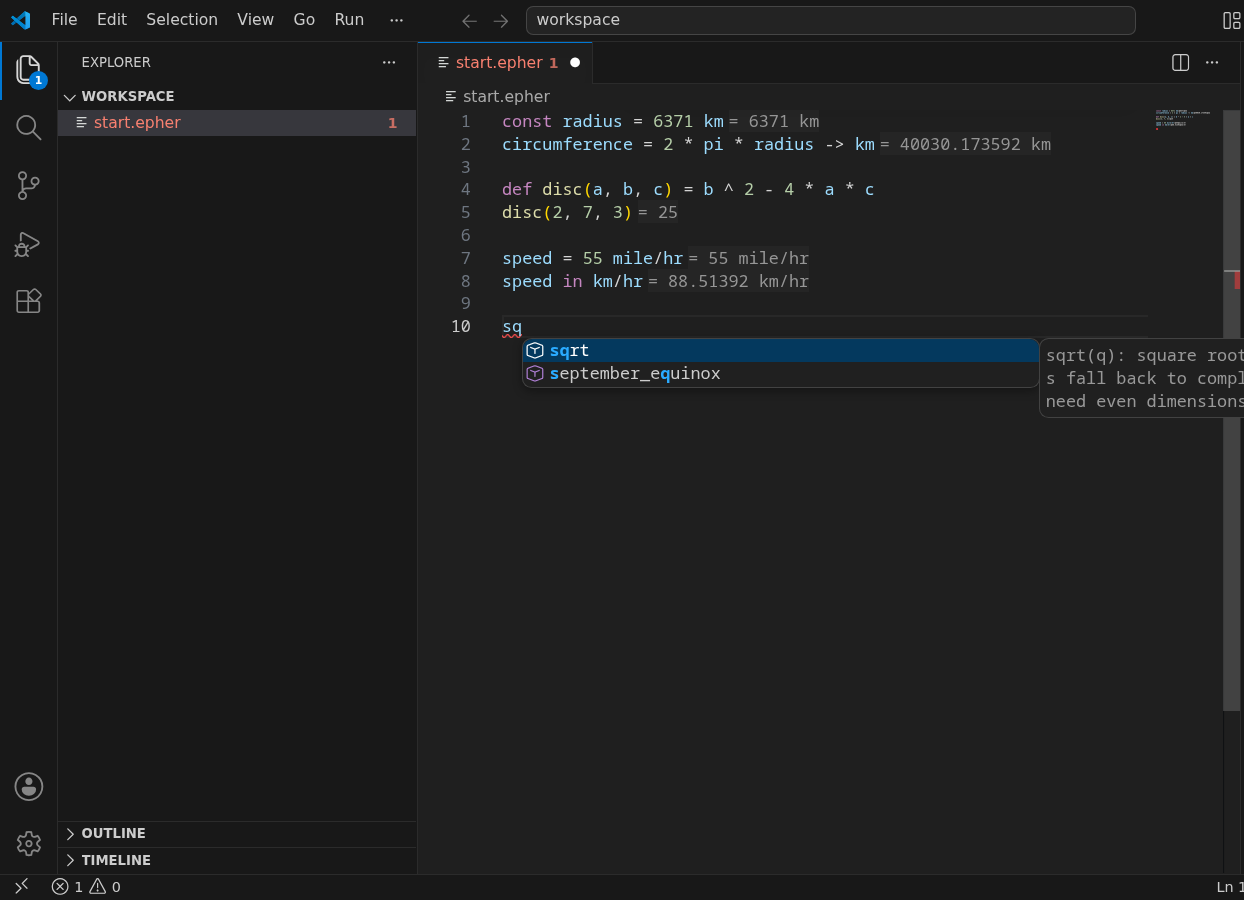
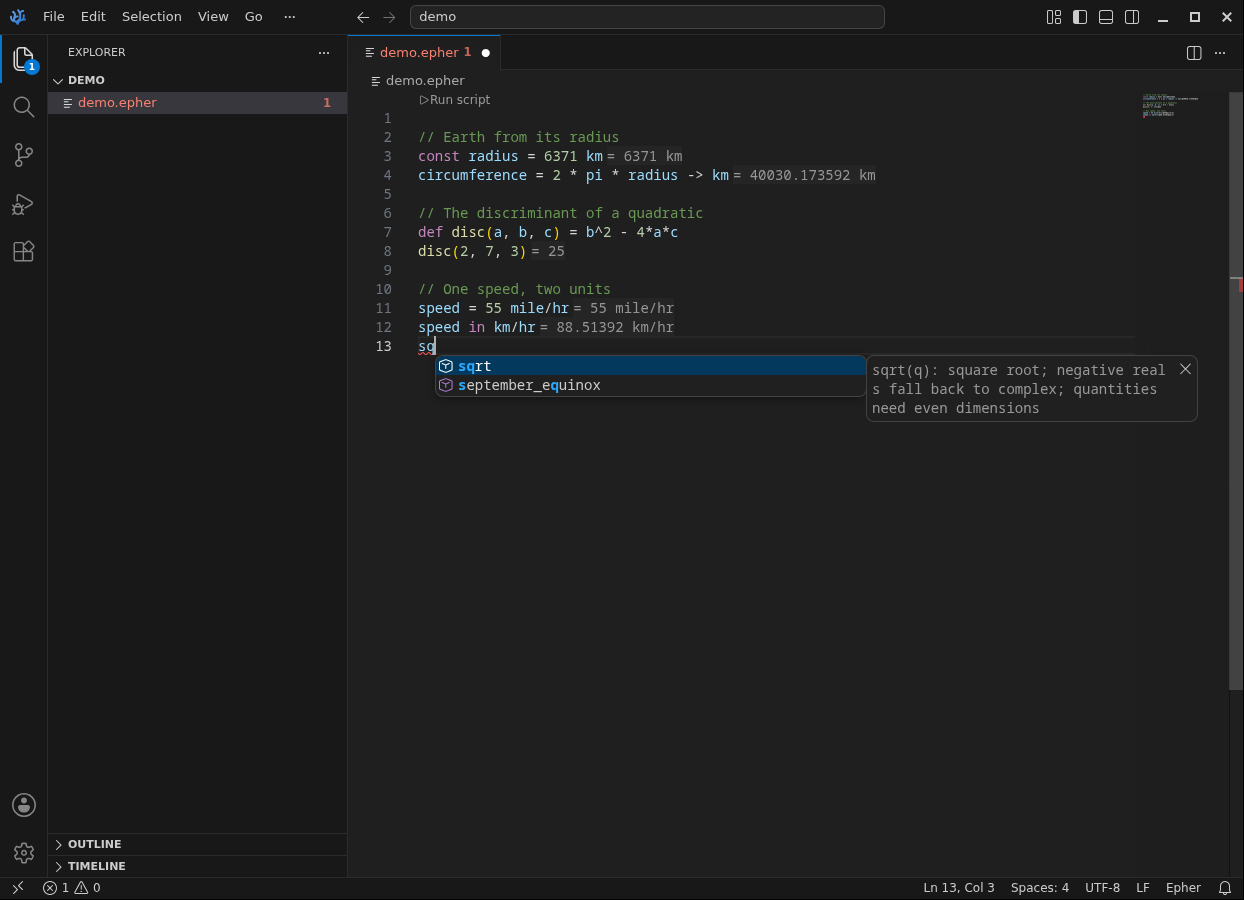
feat(vscode): open vsx listing and vscodium captures
the listing turns editor neutral: the readme quick start installs
from the marketplace in vs code and from open vsx in vscodium, and
the captures are reshot in vscodium itself (hero, typed demo gif,
hover, completion). package.json gains the repository links the
registry footer renders, a changelog tab ships in the vsix, and the
extension version joins the release ride at 0.5.55 - open vsx
refuses to re-publish a version, so the number has to move every
train. a new openvsx-publish workflow publishes the same vsix to
open-vsx.org with a token, skipping until the OVSX_PAT secret
exists.

diff --git a/clients/vscode/README.md b/clients/vscode/README.md
@@ -1,4 +1,4 @@
-# Epher for Visual Studio Code
+# Epher for Visual Studio Code and VSCodium
 
 [![latest release](https://img.shields.io/github/v/release/upyesp/epher?label=release&sort=semver)](https://github.com/upyesp/epher/releases/latest)
 [![release build](https://github.com/upyesp/epher/actions/workflows/release.yml/badge.svg)](https://github.com/upyesp/epher/actions/workflows/release.yml)
@@ -44,13 +44,16 @@ side panel, no print statements: the editor *is* the calculator.
 
 ## Quick start
 
-1. In VS Code: **Extensions** view → search for **Epher** →
+1. In **VS Code**: **Extensions** view → search for **Epher** →
    **Install** (or run `ext install upyesp.epher`). The
    [marketplace page](https://marketplace.visualstudio.com/items?itemName=upyesp.epher)
    has the listing.
-2. Open any `.epher` file and start calculating.
+2. In **VSCodium**: **Extensions** view → search for **Epher** →
+   **Install**. VSCodium searches [Open VSX](https://open-vsx.org/extension/upyesp.epher)
+   by default, which carries the same extension.
+3. Open any `.epher` file and start calculating.
 
-Prefer to sideload, or on a fork (Cursor, VSCodium)? Get
+On another fork (Cursor and friends), or prefer to sideload? Get
 `epher-vscode.vsix` from the
 [releases page](https://github.com/upyesp/epher/releases/latest),
 then **Extensions** view → the `⋯` menu → **Install from VSIX…**

diff --git a/clients/vscode/CHANGELOG.md b/clients/vscode/CHANGELOG.md
@@ -1,0 +1,31 @@
+# Changelog - epher for Visual Studio Code and VSCodium
+
+All notable changes to the extension are listed here. epher the
+language changes independently; the extension bundles the shared
+grammar, snippets, and the WebAssembly language server of whatever
+epher release built it.
+
+## 0.5.55 - 2026-09-27
+
+The same extension now installs in VSCodium straight from Open VSX.
+Listing refresh: new screenshots and animated capture shot in
+VSCodium, changelog tab, repository links for the marketplace footer.
+
+## 0.5.40 - 2026-09-16
+
+Initial release.
+
+- Inline answers: every statement's result renders next to its line
+  as an inlay hint.
+- Units that convert: quantities with unit suffixes, `in`/`->`
+  conversions, and unit-aware semantic coloring.
+- Live diagnostics: syntax and evaluation errors point at the exact
+  token.
+- Hover signatures for catalog functions and your own definitions.
+- Completion: the full catalog, user definitions, keywords, and
+  statement snippets.
+- Script running through a run-only debug adapter: **Run script**
+  CodeLens, F5, or the command palette, with a results pane that
+  links back to the source lines and renders every graph inline.
+- Works on the web: vscode.dev and github.dev, language server and
+  all, via a WebAssembly build of `epher-lsp`.
